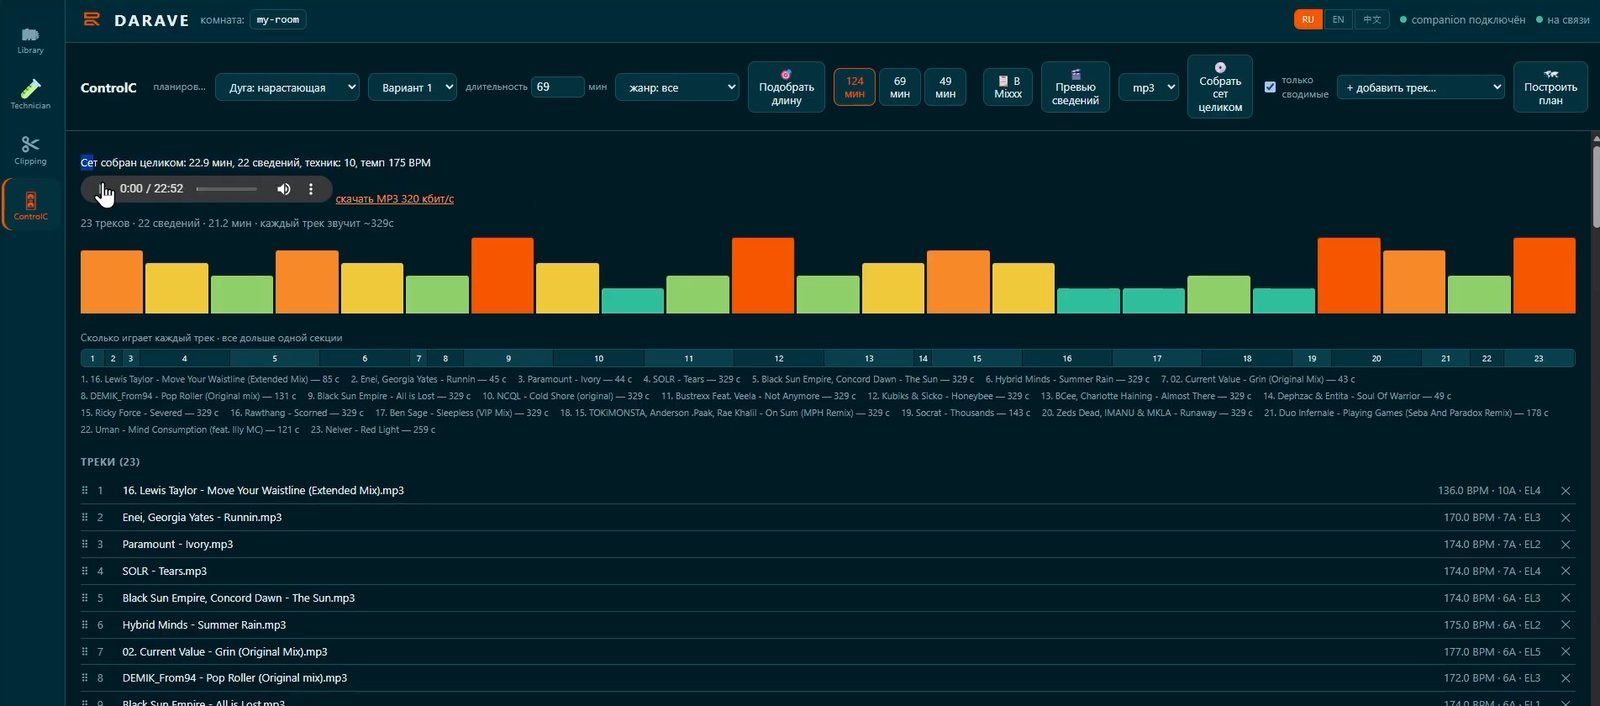
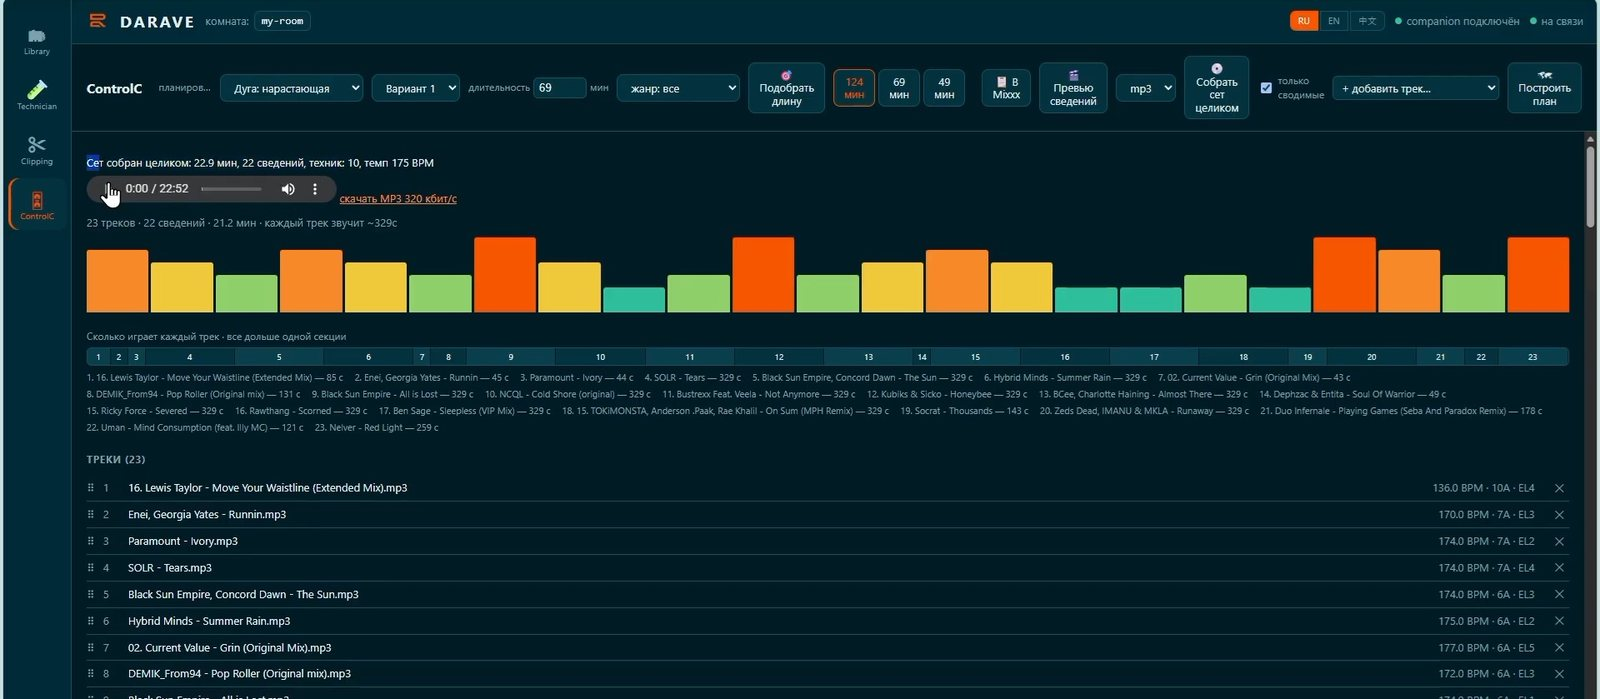
Лендинг: видео, раздел про порядок обучения, три экрана

Changed region(s): [[0.0, 0.0, 1.0, 1.0], [0.0312, 0.691, 0.2812, 1.0], [0.4375, 0.3305, 0.5, 0.3605]]

diff --git a/site/index.html b/site/index.html
@@ -368,22 +368,21 @@
     <div class="wrap stack-lg">
       <div class="stack">
         <span class="eyebrow">Две минуты</span>
-        <h2>Три перехода, собранные программой</h2>
+        <h2>Примеры сведения</h2>
         <p class="lede">
           Запись с экрана: отбор шва, приём, предпрослушка — и как это звучит.
-          Ничего, кроме склейки трёх кусков, в ролике не менялось.
+          Ничего, кроме склейки кусков, в ролике не менялось.
         </p>
       </div>
       <div class="film">
         <video id="demo-video" controls preload="none" playsinline
                poster="/demo-poster.jpg" width="1600" height="900"
-               aria-label="Запись работы DARAVE: три перехода">
+               aria-label="Запись работы DARAVE: примеры сведения">
           <source src="/demo.mp4" type="video/mp4">
           Ваш браузер не умеет показывать видео —
           <a href="/demo.mp4">скачайте файл</a>, он на 9 МБ.
         </video>
       </div>
-      <p class="shot-cap">Со звуком. 2:07, 9 МБ — грузится только после нажатия.</p>
     </div>
   </section>
 
@@ -393,32 +392,39 @@
         <span class="eyebrow">Кому это</span>
         <h2>Чтобы понять переход, пульт не нужен</h2>
         <p class="lede">
-          Обычный путь выглядит так: сначала школа или ролики, потом контроллер
-          за несколько десятков тысяч, потом месяцы на моторику — и только
-          где-то там, в конце, становится слышно, из чего вообще состоит
-          переход. Порядок перевёрнут: сначала руки, потом понимание.
+          Дорога в диджеинг обычно такая. Сначала школа — тысяч двадцать-тридцать
+          за курс, где вам расскажут про фразы, восьмёрки и «убери низ у входящего».
+          Потом контроллер — ещё столько же, а лучше больше, иначе повторять не на чем.
+          Потом месяцы у джогов: руки учатся делать то, чего голова пока не поняла.
+          И где-то между третьим и четвёртым месяцем наконец становится слышно,
+          из чего этот самый переход состоит.
+        </p>
+        <p class="lede">
+          Обратите внимание на порядок. Сначала деньги, потом моторика, и только
+          в самом конце — понимание. <b>У них оно последнее. Здесь оно первое.</b>
         </p>
       </div>
 
       <div class="parts three">
         <div class="part">
-          <h3>Школа объясняет словами</h3>
-          <p>«Убери низ и заводи на фразе» — фраза, за которой стоит десяток
-             решений. Здесь они разложены на ползунки: сколько тактов идут
-             вместе, за сколько долей меняется низ, где луп последней фразы,
-             куда уходит эхо.</p>
+          <h3>«Убери низ и заводи на фразе»</h3>
+          <p>Одна фраза, за которой десяток решений: на каком такте, за сколько
+             долей, что делать с серединой, куда девать хвост уходящего. В школе
+             это объясняют словами. Здесь это ползунки — и каждый слышно.</p>
         </div>
         <div class="part">
-          <h3>Оборудование нужно, чтобы играть</h3>
-          <p>Чтобы разобрать приём — нет. Двигаете параметр, нажимаете
-             «Послушать» и слышите, что изменилось, на своих треках.
-             Пульт понадобится, когда пойдёте выступать.</p>
+          <h3>Пульт нужен, чтобы играть</h3>
+          <p>Чтобы разобрать приём — нет. Двигаете параметр, жмёте «Послушать»,
+             слышите разницу. На своих треках, а не на учебных. Контроллер
+             понадобится, когда пойдёте выступать, — и вы уже будете знать,
+             что на нём делать.</p>
         </div>
         <div class="part">
-          <h3>Каноны не выдуманы здесь</h3>
+          <h3>Каноны не мои</h3>
           <p>63 приёма — те же, что показывают в школах: обмен низом, свипы,
-             тейп-стоп, реверс-ролл, стем-переходы, резы. У каждого написано
-             «как играть», по шагам, на случай если вы пойдёте повторять руками.</p>
+             тейп-стоп, реверс-ролл, стем-переходы, резы. У каждого расписано
+             «как играть», по шагам. Хотите повторить руками — инструкция
+             уже написана.</p>
         </div>
       </div>
 
@@ -430,8 +436,9 @@
         </picture>
       </div>
       <p class="shot-cap">
-        Моторику DARAVE не заменит — она остаётся моторикой. Но к пульту
-        вы подойдёте, уже зная, что делаете и зачем.
+        Моторику это не заменит — её ничто не заменяет. Но к пульту вы подойдёте,
+        уже зная, что делаете и зачем. Это та часть пути, которую можно пройти
+        сегодня и бесплатно.
       </p>
     </div>
   </section>
@@ -459,7 +466,7 @@
       <div class="shot">
         <picture>
           <source srcset="/shot-controlc.webp" type="image/webp">
-          <img src="/shot-controlc.jpg" width="1600" height="706" loading="lazy" decoding="async"
+          <img src="/shot-controlc.jpg" width="1600" height="699" loading="lazy" decoding="async"
                alt="Вкладка ControlC: энергетическая дуга сета из 23 треков, список сведений и треки с темпом, тональностью и энергией">
         </picture>
       </div>
